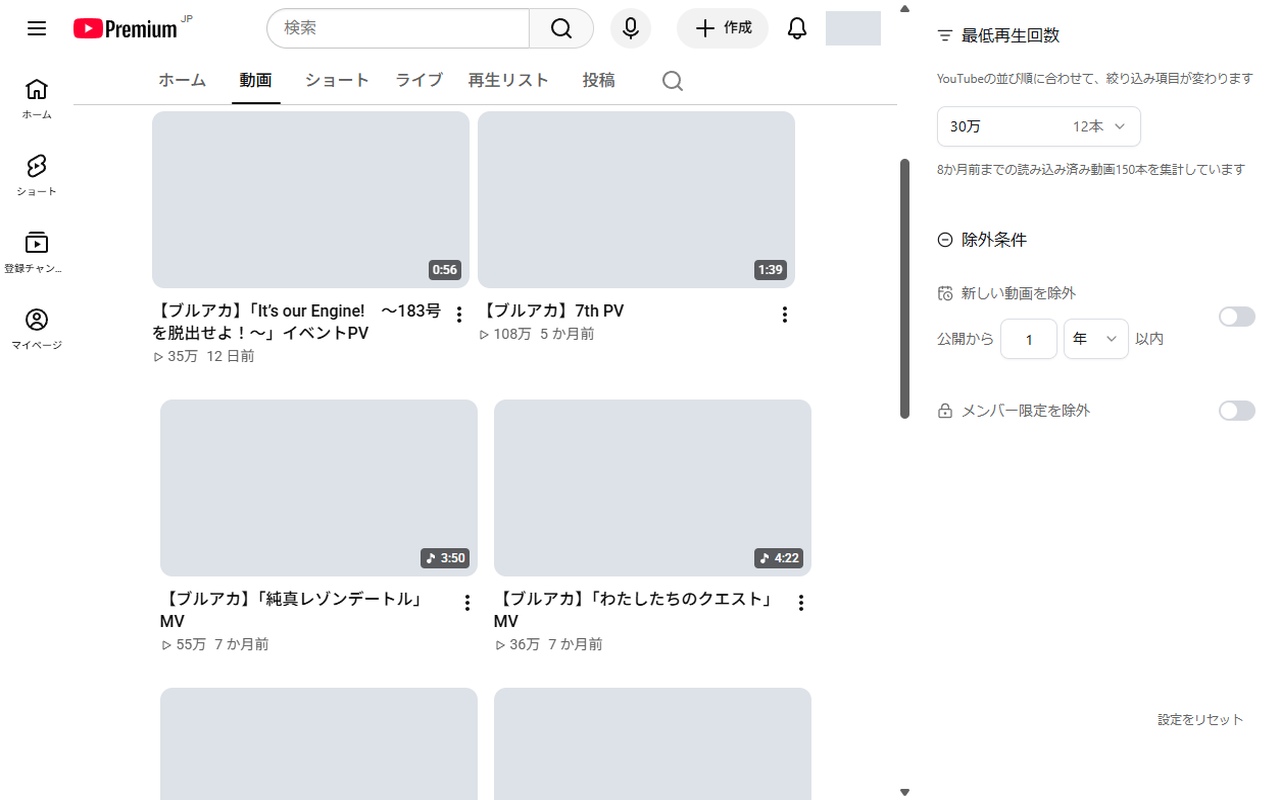
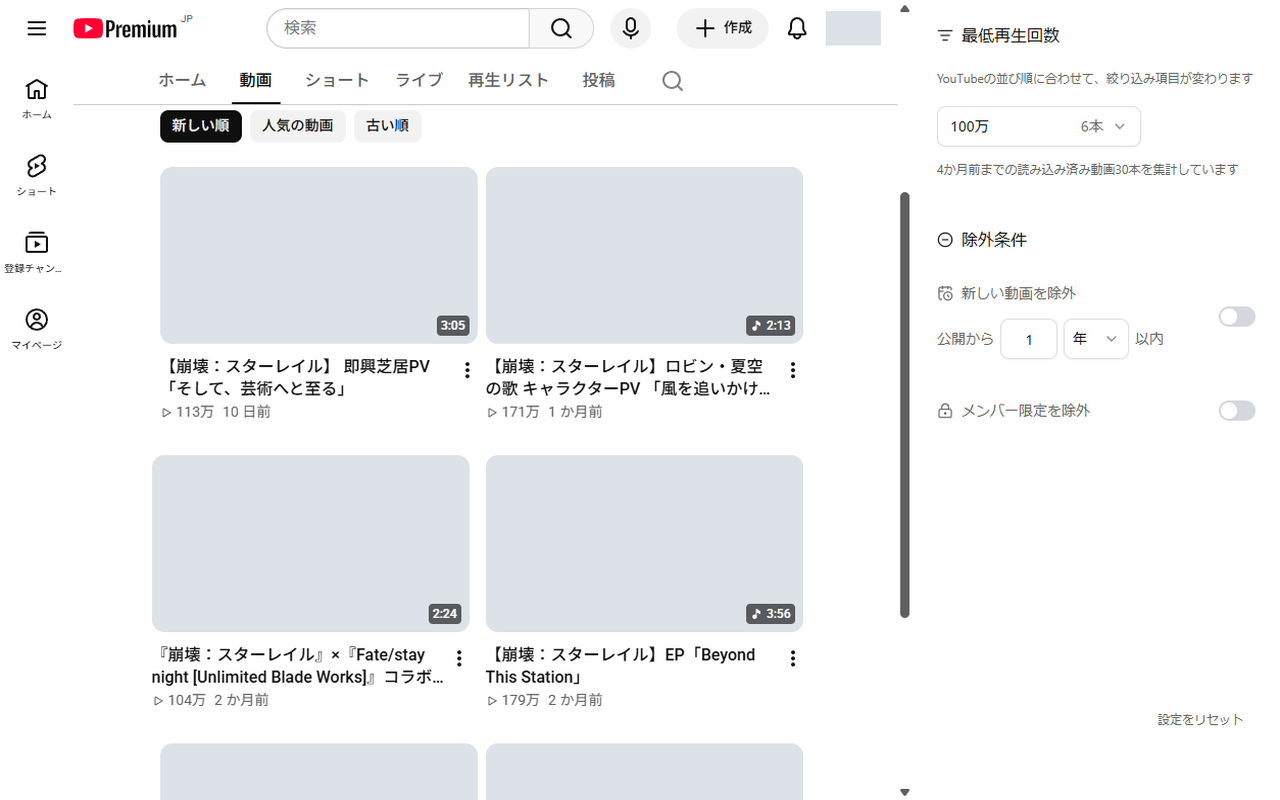
Xの複数投稿とスターレイルの並べ替えを掲載画像に収める

diff --git a/store-assets/screenshots/README.md b/store-assets/screenshots/README.md
@@ -6,13 +6,15 @@
 
 | 対象 | 絞り込み前 | 絞り込み後 | 確認した変化 |
 | --- | --- | --- | --- |
-| X の固定リスト「オタク」 | [指定なし](sift-x-before-ja.png) | [最低いいね数1万](sift-x-ja.png) | 335・775いいねの投稿が消え、2.6万いいねの投稿が残る |
-| YouTube のブルーアーカイブ公式チャンネル | [指定なし](sift-youtube-before-ja.png) | [最低再生回数30万](sift-youtube-ja.png) | 30万回未満の動画が消え、35万・108万・55万・36万回の動画が残る |
+| X の固定リスト「オタク」 | [指定なし](sift-x-before-ja.png) | [最低いいね数10万](sift-x-ja.png) | 10万いいね未満の投稿が消え、10万・13万いいねの投稿が残る |
+| YouTube の崩壊：スターレイル公式チャンネル | [指定なし](sift-youtube-before-ja.png) | [最低再生回数100万](sift-youtube-ja.png) | 100万回未満の動画が消え、113万・171万・104万・179万回の動画が残る |
+
+X はページを75%表示にして2投稿の名前と本文を収めた。YouTube はサイト側の「新しい順・人気の動画・古い順」も収めた。`https://www.youtube.com/@Houkaistarrail_jp/videos` を使用している。
 
 前後で同じリスト・チャンネルを使い、条件による非表示理由も実ページで確認した。数値は撮影時点のもの。読み込み済み件数はスクロールに伴って増えるため、前後の件数だけから除外数を判断しない。
 
 撮影時だけ一時的な CSS を適用し、投稿者のアイコン、投稿画像・動画、リンク先の画像、サムネイル、チャンネルのバナー・アイコン、ログインユーザーのアカウント表示を不透明なグレーで覆った。名前、本文、動画タイトル、反応数・再生数、日時、Sift の操作欄は残している。投稿の追加や本文の置換は行っていない。
 
-画像を開いてマスク漏れと文字の読みやすさを確認した。撮影後は対象タブを閉じ、拡張機能の設定を復元した。加工は描画領域の結合とサイズ調整のみで、画像生成 AI は使っていない。
+画像を開いてマスク漏れと文字の読みやすさを確認した。撮影後は対象タブを閉じ、拡張機能の設定とページの表示倍率を復元した。加工は描画領域の結合とサイズ調整のみで、画像生成 AI は使っていない。
 
 1280×800は[Chrome ウェブストアの掲載画像仕様](https://developer.chrome.com/docs/webstore/images#screenshots)に合わせている。既存の `sift-overview-ja.png` と `sift-overview-en.png` は以前の提出資料であり、今回の更新版では上記4枚を使う。
